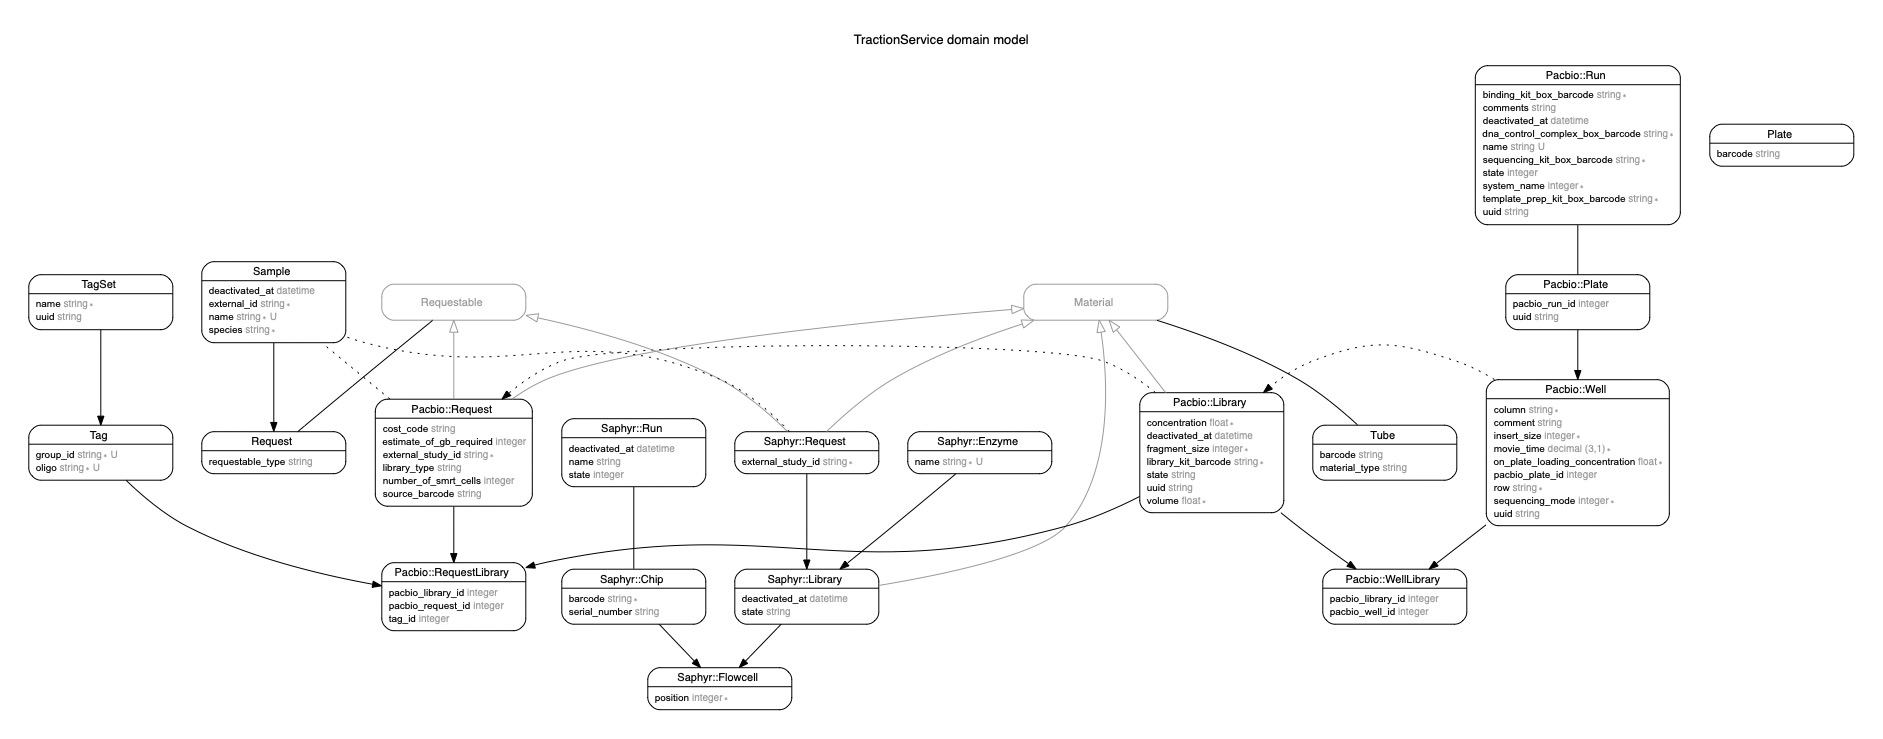
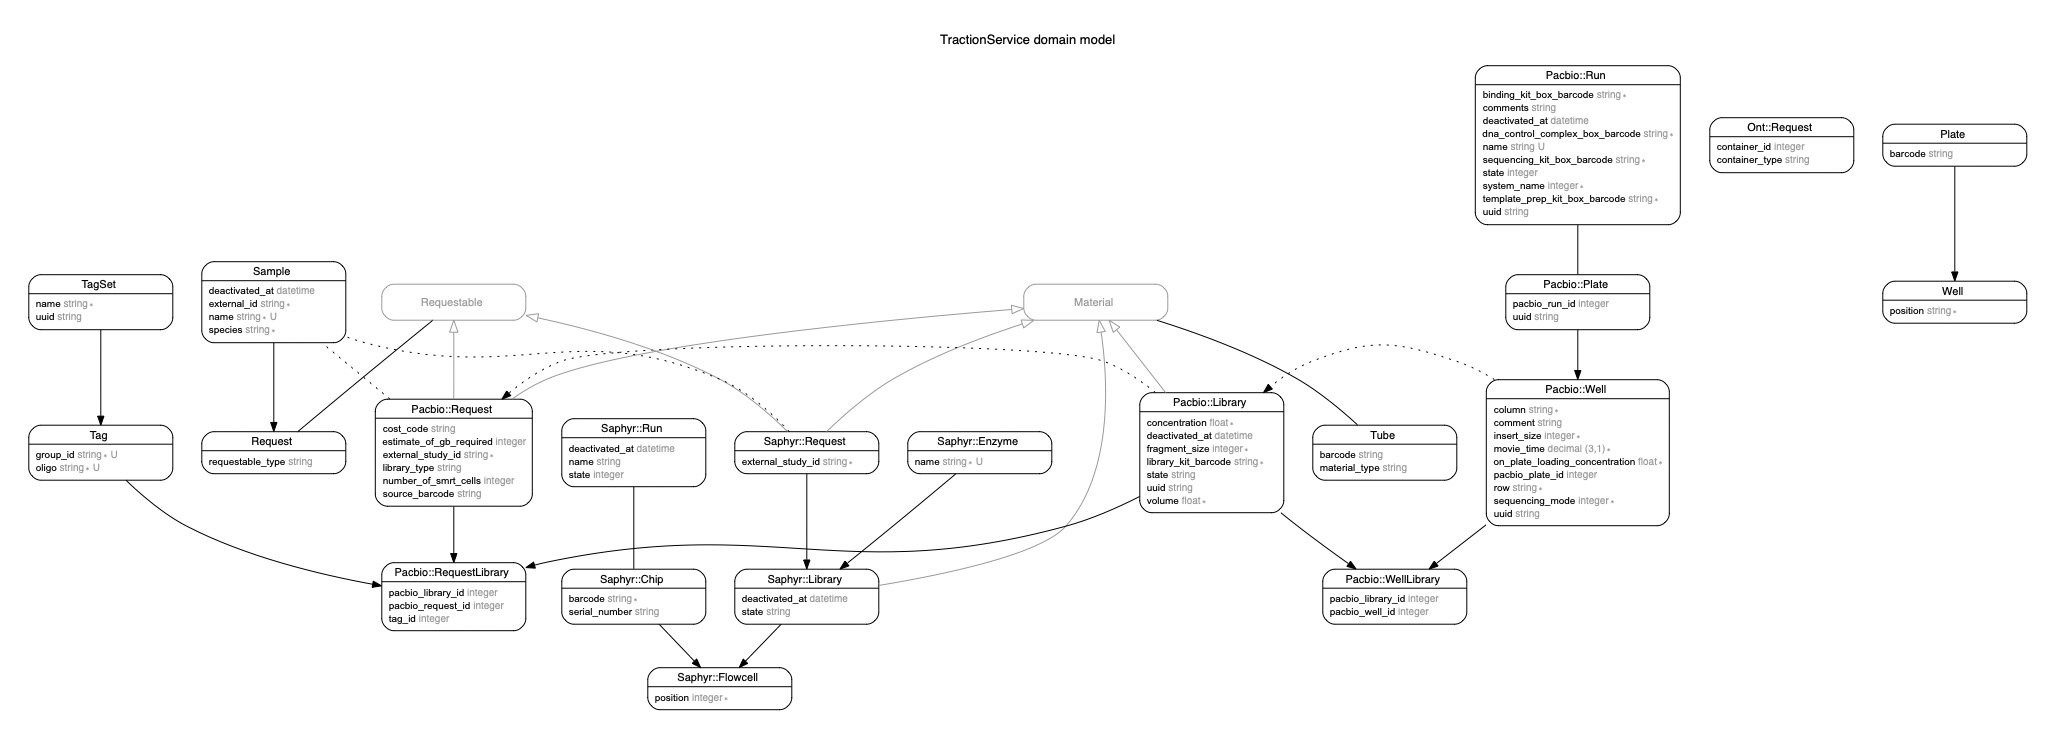
Add collaborative work
Add material and container concerns to go with new ONT namespace and ONT requests

diff --git a/db/schema.rb b/db/schema.rb
@@ -10,7 +10,15 @@
 #
 # It's strongly recommended that you check this file into your version control system.
 
-ActiveRecord::Schema.define(version: 2020_04_20_151009) do
+ActiveRecord::Schema.define(version: 2020_04_21_092146) do
+
+  create_table "ont_requests", force: :cascade do |t|
+    t.string "container_type"
+    t.integer "container_id"
+    t.datetime "created_at", precision: 6, null: false
+    t.datetime "updated_at", precision: 6, null: false
+    t.index ["container_type", "container_id"], name: "index_ont_requests_on_container_type_and_container_id"
+  end
 
   create_table "pacbio_libraries", force: :cascade do |t|
     t.float "volume"

diff --git a/spec/support/labware.rb b/spec/support/labware.rb
@@ -1,16 +1,14 @@
 RSpec.shared_examples "labware" do
 
-  let(:factory) { described_class.to_s.downcase.to_sym}
-
   it 'when the barcode does exist' do
-    labware = create(factory, barcode: 'DN1234567')
+    labware = create(labware_model, barcode: 'DN1234567')
     expect(labware.barcode).to eq('DN1234567')
   end
 
   it 'when the barcode does not exist' do
-    labware = create(factory)
+    labware = create(labware_model)
     expect(labware.barcode).to be_present
     expect(labware.barcode).to eq("TRAC-#{described_class.prefix}-#{labware.id}")
   end
-  
+
 end

diff --git a/spec/models/tube_spec.rb b/spec/models/tube_spec.rb
@@ -1,6 +1,11 @@
 require "rails_helper"
 
 RSpec.describe Tube, type: :model do
+  context 'labware' do
+    let(:labware_model) { :tube_with_saphyr_request }
+    it_behaves_like 'labware'
+  end
+
   context 'on creation' do
     it 'should have a barcode' do
       tube = create(:tube_with_saphyr_request)

diff --git a/db/migrate/20200421092146_create_ont_requests.rb b/db/migrate/20200421092146_create_ont_requests.rb
@@ -1,0 +1,8 @@
+class CreateOntRequests < ActiveRecord::Migration[6.0]
+  def change
+    create_table :ont_requests do |t|
+      t.belongs_to :container, polymorphic: true, index: true
+      t.timestamps
+    end
+  end
+end

diff --git a/spec/models/plate_spec.rb b/spec/models/plate_spec.rb
@@ -1,6 +1,8 @@
 require 'rails_helper'
 
 RSpec.describe Plate, type: :model do
-
-  it_behaves_like 'labware'
+  context 'labware' do
+    let(:labware_model) { :plate }
+    it_behaves_like 'labware'
+  end
 end

diff --git a/app/models/concerns/container.rb b/app/models/concerns/container.rb
@@ -1,0 +1,10 @@
+# frozen_string_literal: true
+
+# Container
+module Container
+  extend ActiveSupport::Concern
+
+  included do
+    has_one :material, polymorphic: true, dependent: :nullify
+  end
+end

diff --git a/spec/models/ont/request_spec.rb b/spec/models/ont/request_spec.rb
@@ -1,0 +1,7 @@
+require 'rails_helper'
+
+RSpec.describe Ont::Request, type: :model do
+  it 'must have a container' do
+    expect(build(:ont_request, container: nil)).to_not be_valid
+  end
+end

diff --git a/app/models/concerns/material.rb b/app/models/concerns/material.rb
@@ -1,0 +1,9 @@
+# frozen_string_literal: true
+
+# Material
+module Material extend ActiveSupport::Concern
+
+  included do
+    belongs_to container, polymorphic: true
+  end
+end

diff --git a/app/models/ont/request.rb b/app/models/ont/request.rb
@@ -1,0 +1,7 @@
+# frozen_string_literal: true
+
+module Ont
+  class Request < ApplicationRecord
+    include Material
+  end
+end

diff --git a/app/ont/ont.rb b/app/ont/ont.rb
@@ -1,0 +1,8 @@
+# frozen_string_literal: true
+
+# ONT
+module Ont
+  def self.table_name_prefix
+    'ont_'
+  end
+end

diff --git a/spec/factories/ont/requests.rb b/spec/factories/ont/requests.rb
@@ -1,0 +1,5 @@
+FactoryBot.define do
+  factory :ont_request, class: 'Ont::Request' do
+    
+  end
+end
